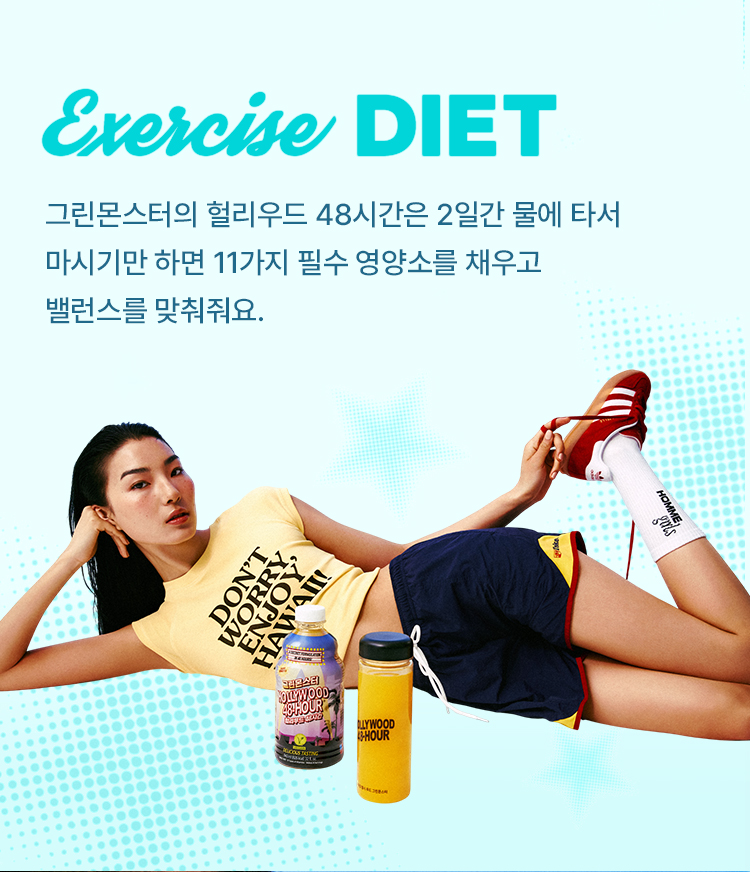
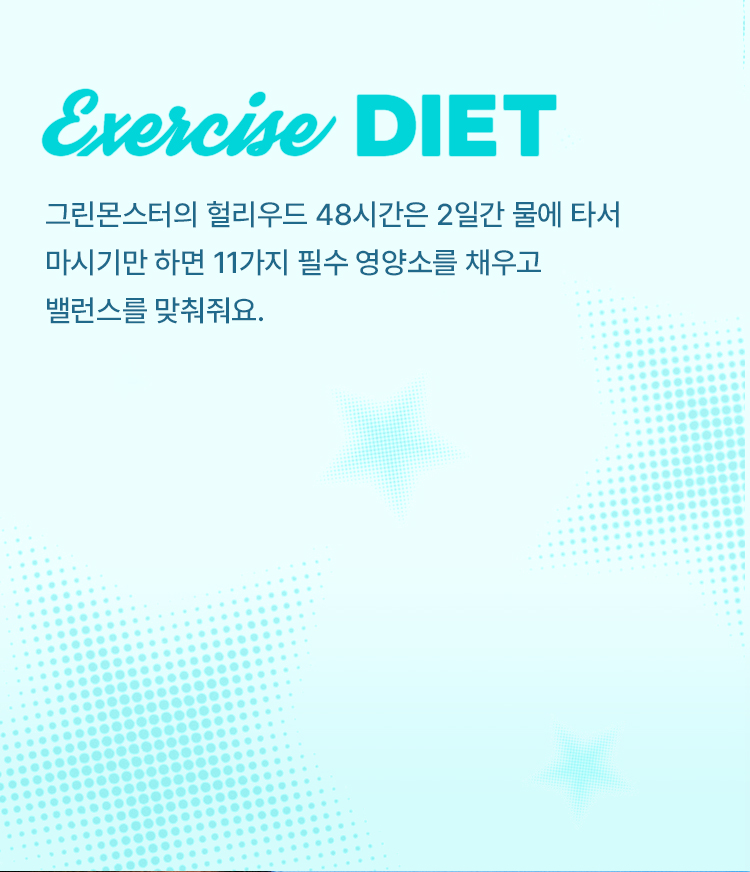
mo_07: new background + model photo cutout arrives from right on scroll, matching original composite position

Changed region(s): [[0.0, 0.4025, 1.0, 0.9289]]

diff --git a/css/style.css b/css/style.css
@@ -87,6 +87,9 @@ img{ display:block; width:100%; }
 
 /* ---- 사진 1장 + 텍스트 오버레이 ---- */
 .static-txt{ position:relative; width:100%; }
+
+/* ---- 사진 1장 + 자유 위치 오버레이 (좌표는 inline style로 직접 지정) ---- */
+.ovl-wrap{ position:relative; width:100%; }
 .static-txt > *:last-child{ position:absolute; inset:0; width:100%; }
 
 /* 텍스트 오버레이 스크롤 등장 모션 (js/reveal.js 가 .is-in 토글) — 방향별로 교차 사용 */

diff --git a/index.html b/index.html
@@ -47,7 +47,10 @@
   </div>
 
   <!-- 07 Exercise Diet -->
-  <img src="assets2/r07.jpg" alt="" />
+  <div class="ovl-wrap">
+    <img src="assets2/r07.jpg" alt="" />
+    <img class="reveal-txt dir-right" style="position:absolute; top:42.43%; left:-6.4%; width:112.8%;" src="assets2/r07-overlay.png" alt="" />
+  </div>
 
   <!-- 08 페이드인아웃 -->
   <div class="fade2">
